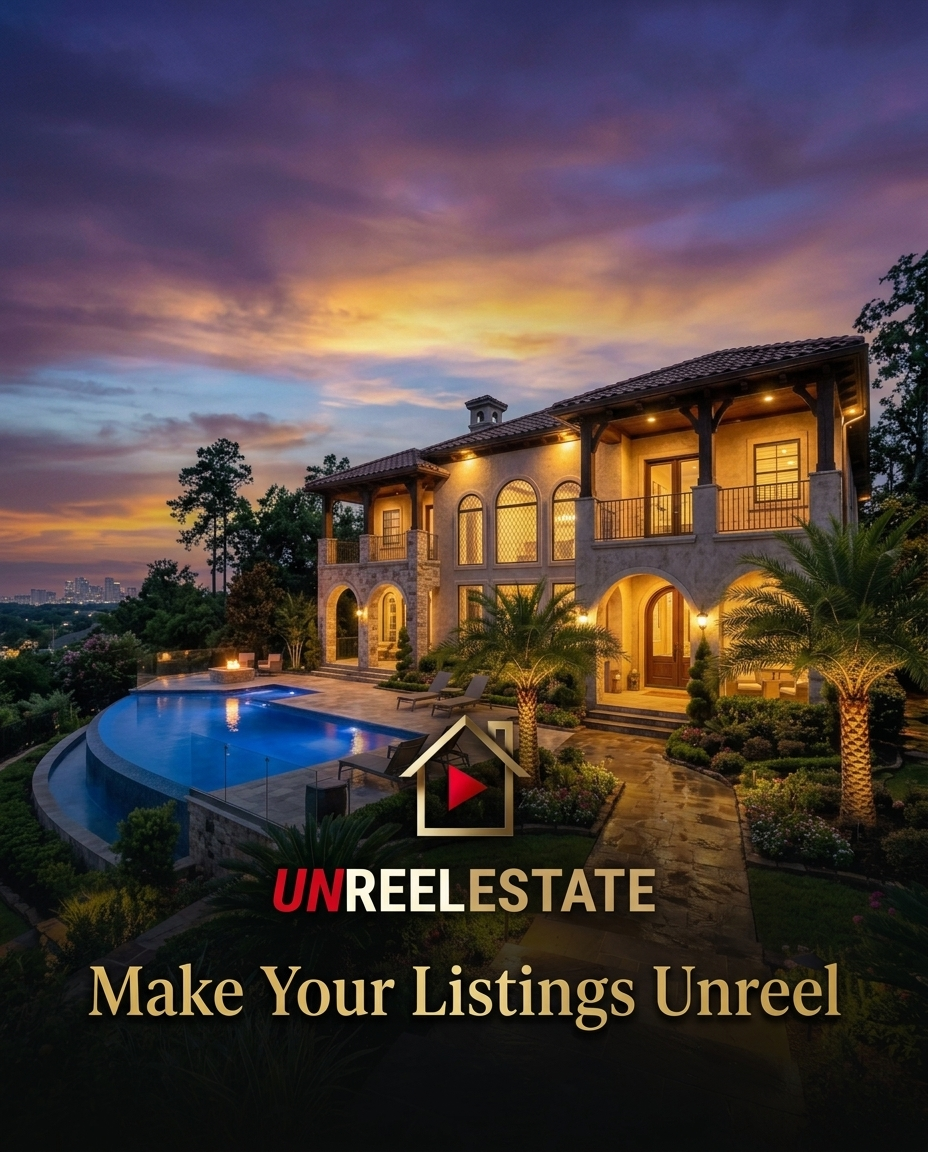
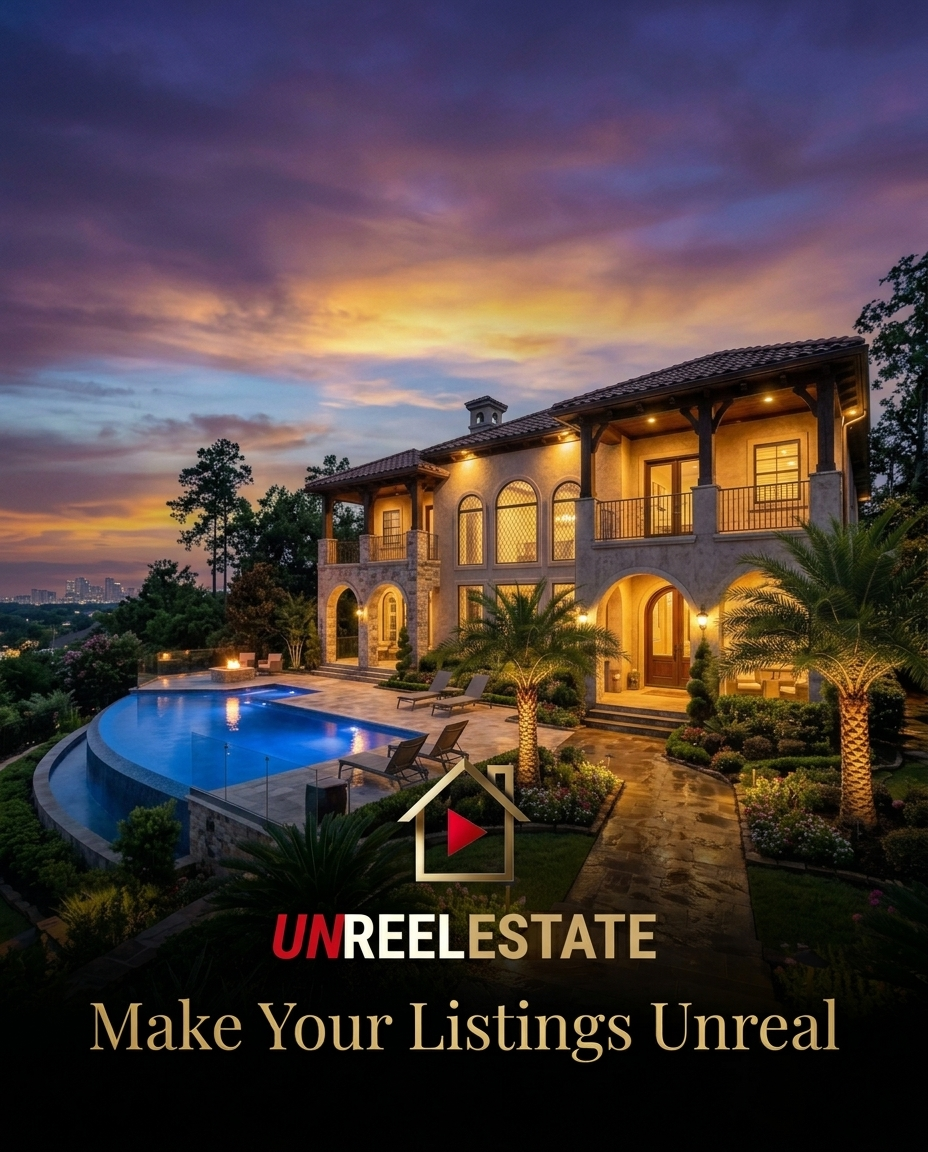
Update tagline to 'Make Your Listings Unreal' across og tags + image

diff --git a/index.html b/index.html
@@ -15,7 +15,7 @@
     <!-- Open Graph (Facebook, WhatsApp, LinkedIn) -->
     <meta property="og:type" content="website" />
     <meta property="og:url" content="https://www.unreelestate.com/" />
-    <meta property="og:title" content="Unreel Estate | Make Your Listings Unreel" />
+    <meta property="og:title" content="Unreel Estate | Make Your Listings Unreal" />
     <meta property="og:description" content="AI-enhanced photos + cinematic video reels for real estate agents. Send 10 photos, get a full listing presentation. Starting at $399." />
     <meta property="og:image" content="https://www.unreelestate.com/og-image.png" />
     <meta property="og:image:width" content="1024" />
@@ -26,7 +26,7 @@
     <!-- Twitter Card -->
     <meta name="twitter:card" content="summary_large_image" />
     <meta name="twitter:url" content="https://www.unreelestate.com/" />
-    <meta name="twitter:title" content="Unreel Estate | Make Your Listings Unreel" />
+    <meta name="twitter:title" content="Unreel Estate | Make Your Listings Unreal" />
     <meta name="twitter:description" content="AI-enhanced photos + cinematic video reels for real estate agents. Starting at $399." />
     <meta name="twitter:image" content="https://www.unreelestate.com/og-image.png" />
 